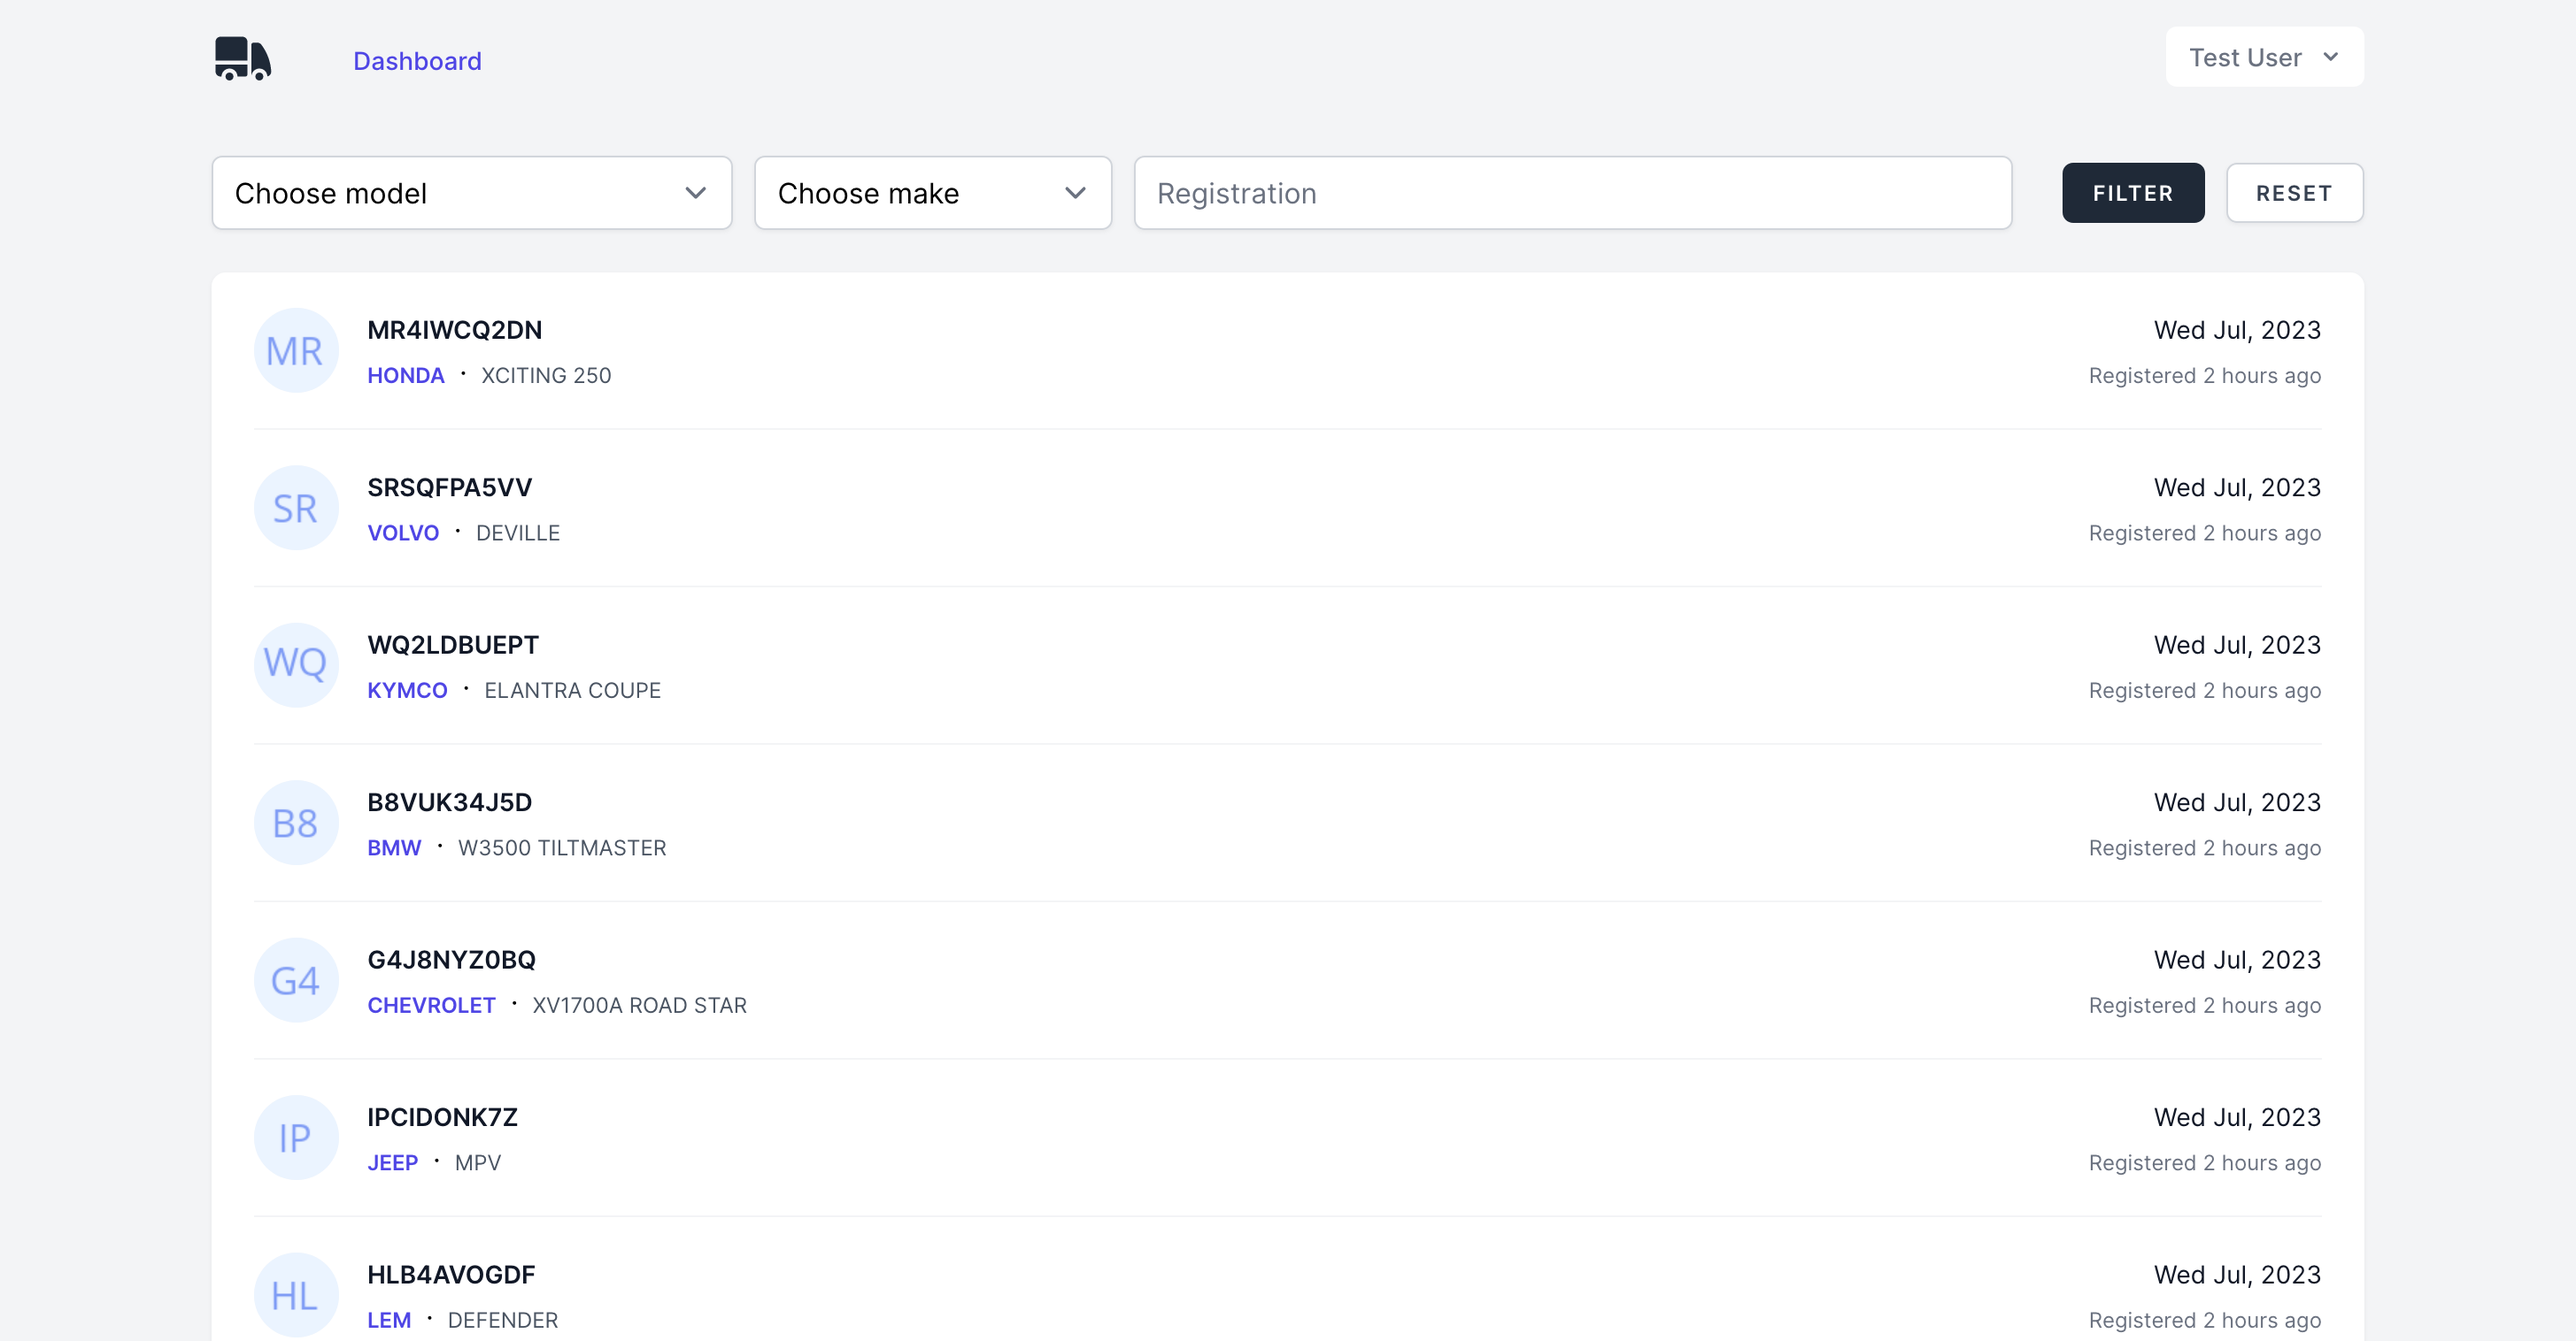
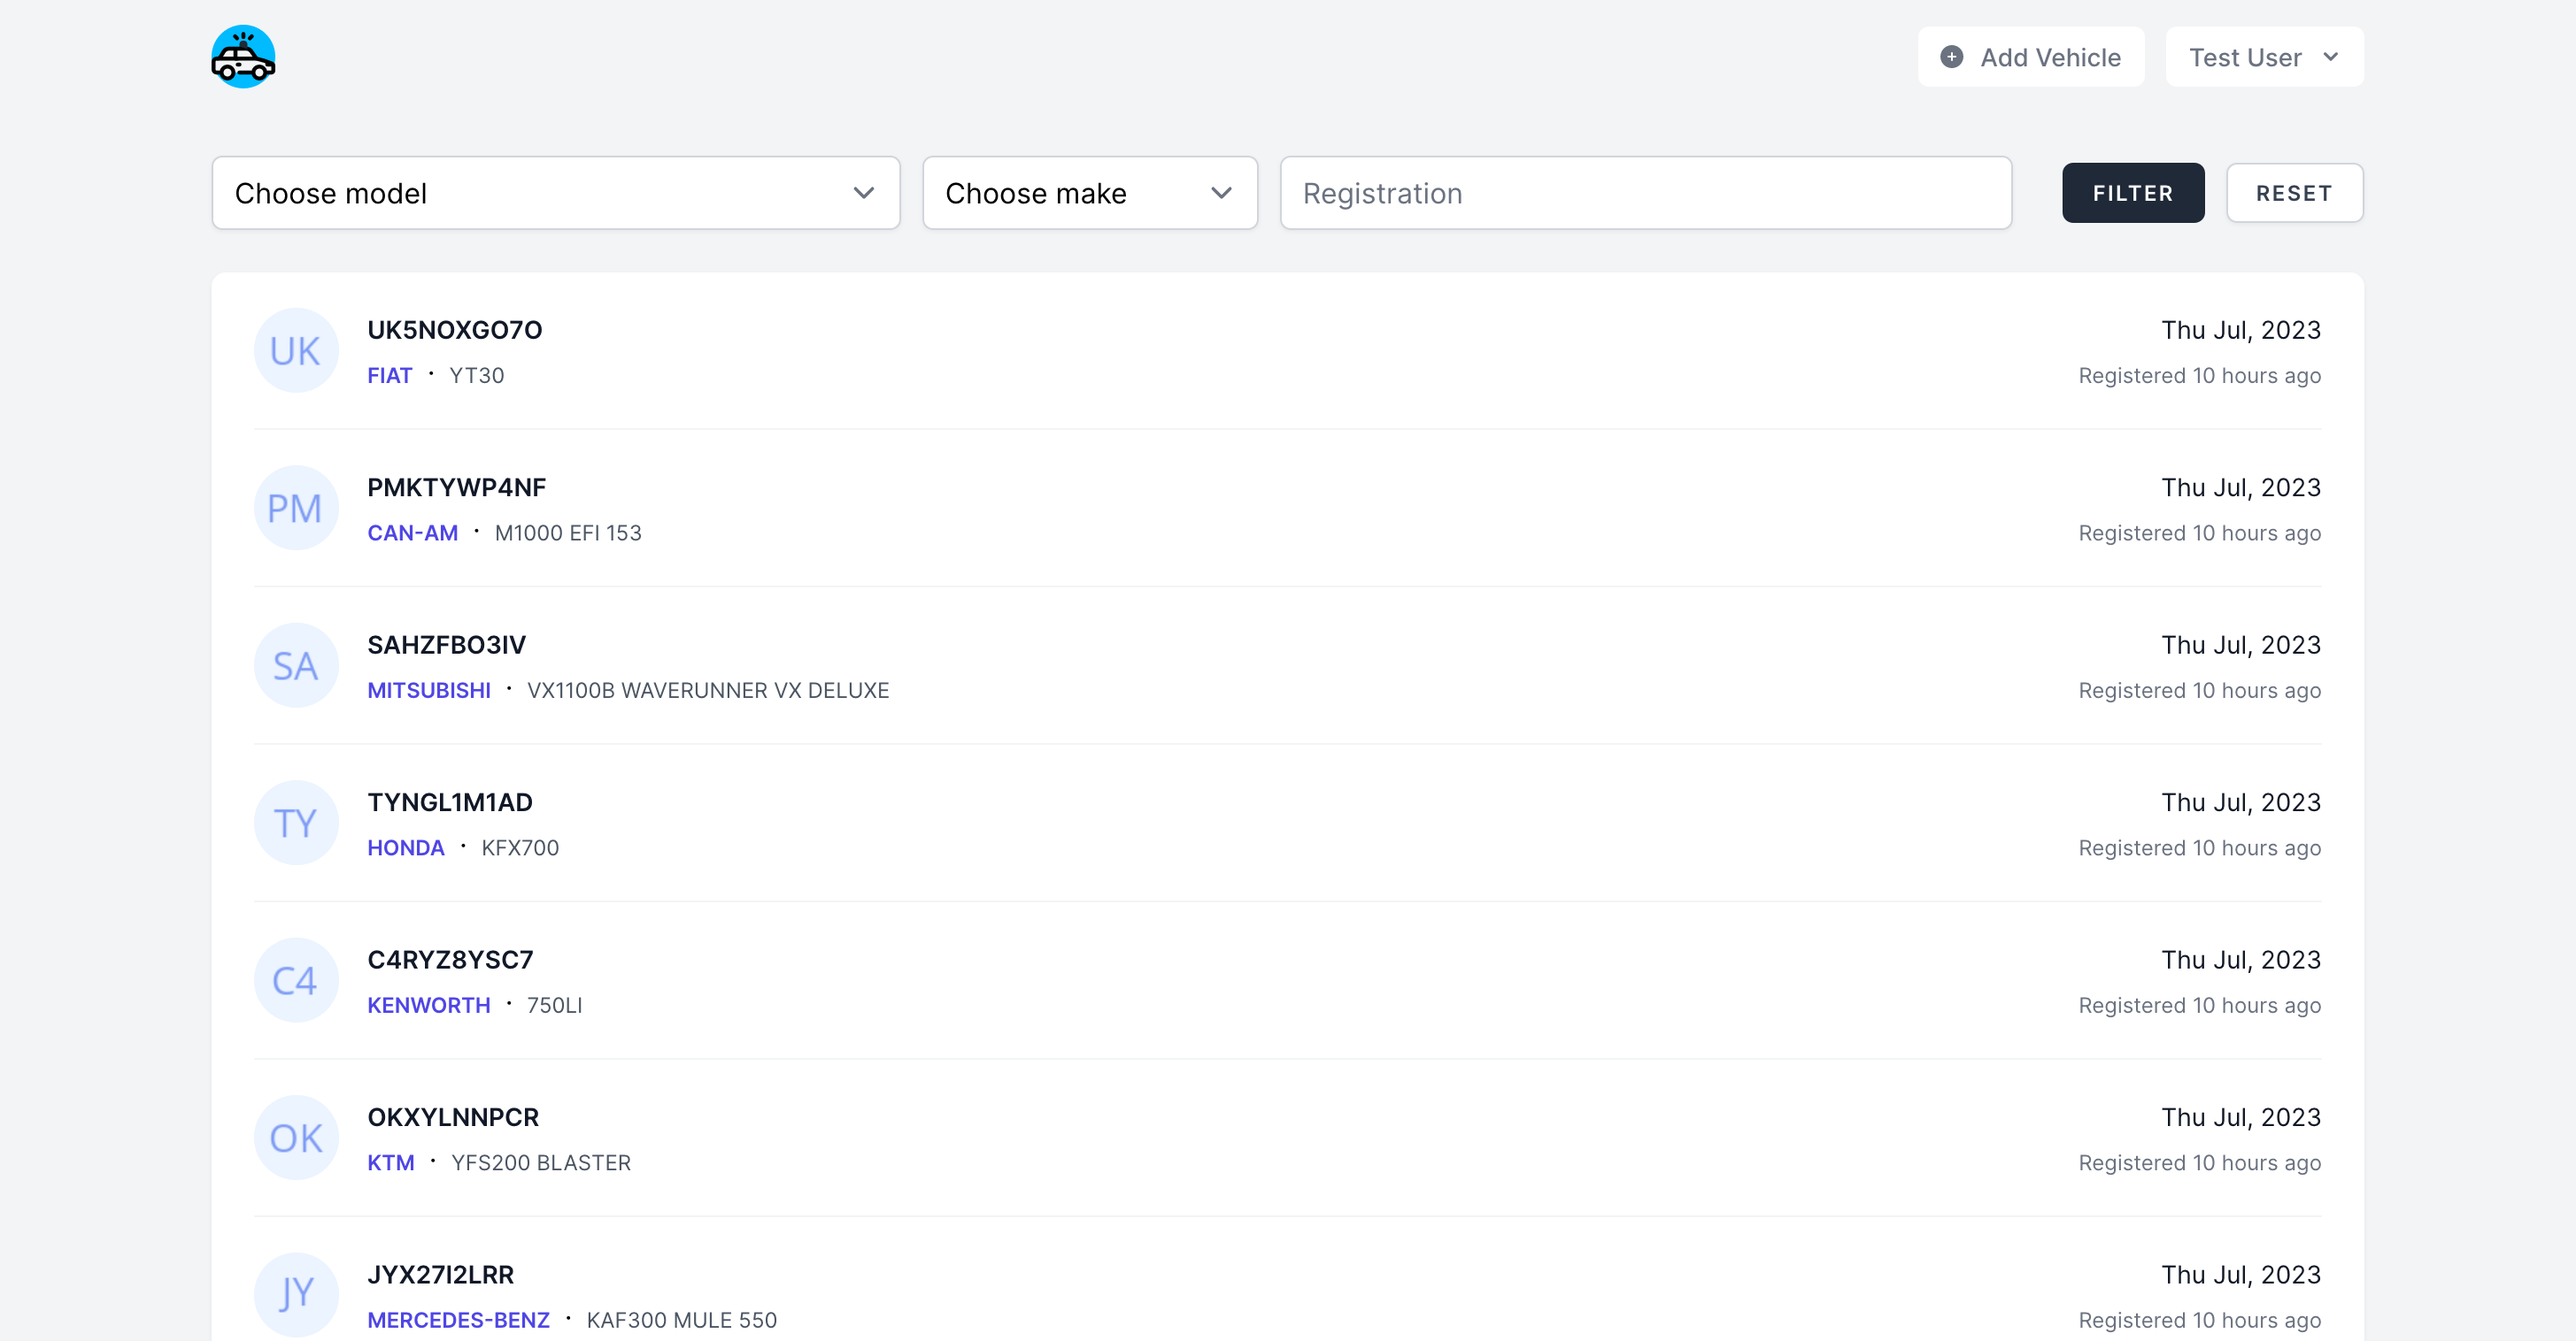
Add vehicle update and delete feature and update README

diff --git a/resources/js/Pages/Home.vue b/resources/js/Pages/Home.vue
@@ -3,8 +3,13 @@ import AuthenticatedLayout from '@/Layouts/AuthenticatedLayout.vue';
 import TextInput from '@/Components/TextInput.vue';
 import PrimaryButton from '@/Components/PrimaryButton.vue';
 import SecondaryButton from '@/Components/SecondaryButton.vue';
+import DangerButton from '@/Components/DangerButton.vue';
 import Pagination from '@/Components/Pagination.vue';
-import { Head, router, usePage } from '@inertiajs/vue3';
+import InputLabel from '@/Components/InputLabel.vue';
+import InputError from '@/Components/InputError.vue';
+import Modal from '@/Components/Modal.vue';
+import { Head, router, usePage, useForm } from '@inertiajs/vue3';
+import { ref, nextTick } from 'vue';
 import moment from 'moment';
 
 const props = defineProps({
@@ -78,6 +83,58 @@ const resetFilter = () => {
 
     router.get(`${window.location.origin}/home`);
 };
+
+const modelInput = ref(null);
+const updatingVehicle = ref(false);
+
+const updateForm = useForm({
+    model: '',
+    make: '',
+    registration: '',
+});
+
+let updatableVehicle = undefined;
+
+const updateVehicle = () => {
+    updateForm.put(route('vehicles.update', updatableVehicle.id), {
+        preserveScroll: true,
+        onSuccess: () => closeUpdateVehicle(),
+        onError: () => modelInput.value.focus(),
+        onFinish: () => updateForm.reset(),
+    });
+};
+
+const openUpdateVehicle = (vehicle) => {
+    updatingVehicle.value = true;
+
+    updatableVehicle = vehicle;
+
+    updateForm.model = vehicle.model;
+    updateForm.make = vehicle.make;
+    updateForm.registration = vehicle.registration;
+
+    nextTick(() => modelInput.value.focus());
+};
+
+const closeUpdateVehicle = () => {
+    updatingVehicle.value = false;
+
+    updateForm.clearErrors();
+    updateForm.reset();
+
+    updatableVehicle = undefined;
+};
+
+const deleteForm = useForm({});
+
+const deleteVehicle = () => {
+    deleteForm.delete(route('vehicles.destroy', updatableVehicle.id), {
+        preserveScroll: true,
+        onSuccess: () => closeUpdateVehicle(),
+        onError: () => modelInput.value.focus(),
+        onFinish: () => updateForm.reset(),
+    });
+};
 </script>
 
 <template>
@@ -135,7 +192,11 @@ const resetFilter = () => {
                                     <img class="h-12 w-12 flex-none rounded-full bg-gray-50" :src="`https://ui-avatars.com/api/?name=${encodeURIComponent(vehicle.registration)}'&color=7F9CF5&background=EBF4FF`" alt="" />
 
                                     <div class="min-w-0 flex-auto">
-                                        <p class="uppercase text-sm font-semibold leading-6 text-gray-900">{{ vehicle.registration }}</p>
+                                        <div>
+                                            <button @click="openUpdateVehicle(vehicle)" class="uppercase text-sm font-semibold leading-6 text-gray-900 hover:underline">
+                                                {{ vehicle.registration }}
+                                            </button>
+                                        </div>
 
                                         <div class="flex items-center">
                                             <p class="mt-1 truncate text-xs font-semibold text-indigo-600">{{ vehicle.make }}</p>
@@ -161,6 +222,84 @@ const resetFilter = () => {
             <div class="flex items-center justify-center">
                 <Pagination :links="vehicles.links"></Pagination>
             </div>
+
+            <!-- Update Vehicle Modal -->
+            <Modal maxWidth="xl" :show="updatingVehicle" @close="closeUpdateVehicle">
+                <div class="p-6">
+                    <h2 class="text-lg font-medium text-gray-900">
+                        Update Vehicle Information
+                    </h2>
+
+                    <p class="mt-1 text-sm text-gray-600">
+                        The existing information regarding the vehicle will be updated and saved to the database.
+                    </p>
+
+                    <div class="mt-6 md:grid md:grid-cols-12 md:gap-6">
+                        <div class="col-span-6">
+                            <InputLabel for="model" value="Model" class="sr-only" />
+
+                            <TextInput
+                                id="model"
+                                required="true"
+                                ref="modelInput"
+                                v-model="updateForm.model"
+                                type="text"
+                                class="mt-1 block w-full"
+                                placeholder="Model"
+                            />
+
+                            <InputError :message="updateForm.errors.model" class="mt-2" />
+                        </div>
+
+                        <div class="col-span-6">
+                            <InputLabel for="make" value="Make" class="sr-only" />
+
+                            <TextInput
+                                id="make"
+                                required="true"
+                                v-model="updateForm.make"
+                                type="text"
+                                class="mt-1 block w-full"
+                                placeholder="Make"
+                            />
+
+                            <InputError :message="updateForm.errors.make" class="mt-2" />
+                        </div>
+                    </div>
+
+                    <div class="mt-4">
+                        <InputLabel for="registration" value="Registration" class="sr-only" />
+
+                        <TextInput
+                            id="registration"
+                            required="true"
+                            v-model="updateForm.registration"
+                            type="text"
+                            class="mt-1 block w-full"
+                            placeholder="Registration"
+                        />
+
+                        <InputError :message="updateForm.errors.registration" class="mt-2" />
+                    </div>
+
+                    <div class="mt-6 flex items-center justify-between">
+                        <DangerButton @click="deleteVehicle">Delete</DangerButton>
+
+                        <div class="flex items-center justify-end">
+                            <SecondaryButton @click="closeUpdateVehicle">Cancel</SecondaryButton>
+
+                            <PrimaryButton
+                                class="ml-3"
+                                :class="{ 'opacity-25': form.processing }"
+                                :disabled="form.processing"
+                                @click="updateVehicle"
+                            >
+                                Save
+                            </PrimaryButton>
+                        </div>
+                    </div>
+                </div>
+            </Modal>
         </div>
     </AuthenticatedLayout>
 </template>

diff --git a/resources/js/Layouts/AuthenticatedLayout.vue b/resources/js/Layouts/AuthenticatedLayout.vue
@@ -3,7 +3,7 @@ import { ref, nextTick } from 'vue';
 import ApplicationLogo from '@/Components/ApplicationLogo.vue';
 import Dropdown from '@/Components/Dropdown.vue';
 import DropdownLink from '@/Components/DropdownLink.vue';
-import NavLink from '@/Components/NavLink.vue';
+// import NavLink from '@/Components/NavLink.vue';
 import InputLabel from '@/Components/InputLabel.vue';
 import InputError from '@/Components/InputError.vue';
 import TextInput from '@/Components/TextInput.vue';

diff --git a/app/Http/Controllers/VehicleController.php b/app/Http/Controllers/VehicleController.php
@@ -8,6 +8,7 @@ use Illuminate\Http\Request;
 use Illuminate\Http\Response;
 use App\Filters\VehicleFilter;
 use App\Services\VehicleService;
+use Illuminate\Http\JsonResponse;
 use Inertia\Response as InertiaResponse;
 use App\Http\Requests\StoreVehicleRequest;
 use App\Http\Requests\UpdateVehicleRequest;
@@ -97,19 +98,13 @@ class VehicleController extends Controller
      *
      * @param \App\Models\Vehicle $vehicle
      *
-     * @return \Illuminate\Http\Response|\Inertia\Response
+     * @return \Illuminate\Http\JsonResponse
      */
-    public function show(Vehicle $vehicle)
+    public function show(Vehicle $vehicle): JsonResponse
     {
         $this->authorize('viewAny', $vehicle);
 
-        if (request()->wantsJson()) {
-            return response()->json($vehicle);
-        }
-
-        return Inertia::render('Vehicles/Show', [
-            'vehicle' => $vehicle,
-        ]);
+        return new JsonResponse($vehicle);
     }
 
     /**

diff --git a/database/factories/VehicleFactory.php b/database/factories/VehicleFactory.php
@@ -26,7 +26,7 @@ class VehicleFactory extends Factory
         return [
             'make' => $this->faker->randomElement($data->pluck('make')->toArray()),
             'model' => $this->faker->randomElement($data->pluck('model')->toArray()),
-            'registration' => Str::random(10),
+            'registration' => Str::upper(Str::random(10)),
         ];
     }
 }

diff --git a/README.md b/README.md
@@ -2,7 +2,7 @@
 
 ![transmission](public/images/screenshot.png)
 
-Trasmission is a web application that allows users to search for cars by make, model, and registration. The application uses a REST API to retrieve the data. The application UI is built using VueJS and TailwindCSS.
+Trasmission is a web application that allows users to search for vehicles by make, model, and registration. The application uses a REST API to retrieve the data. The application UI is built using VueJS and TailwindCSS.
 
 ## Features
 
@@ -10,19 +10,35 @@ Trasmission is a web application that allows users to search for cars by make, m
 
 ![filter-make](public/images/filter-make.png)
 
-The app allows users to filter cars by make. The user can select a make from the dropdown menu and the app will display all cars that match the selected make.
+The app allows users to filter vehicles by make. The user can select a make from the dropdown menu and the app will display all vehicles that match the selected make.
 
 ### Filter by Model
 
 ![filter-model](public/images/filter-model.png)
 
-The app allows users to filter cars by model. The user can select a model from the dropdown menu and the app will display all cars that match the selected model.
+The app allows users to filter vehicles by model. The user can select a model from the dropdown menu and the app will display all vehicles that match the selected model.
 
 ### Filter by Registration
 
-![filter-make-reg](public/images/filter-make-reg.png)
+![filter-make-reg](public/images/filter-reg.png)
 
-The app allows users to filter cars by registration. The user can enter a registration number and the app will display all cars that match the entered registration number.
+The app allows users to filter vehicles by registration. The user can enter a registration number and the app will display all vehicles that match the entered registration number.
+
+### Add New Vehicle
+
+![add](public/images/add.png)
+
+The app allows users to add new vehicles. The user can click on the "Add Vehicle" button and enter the vehicle details in the modal. The app will validate the entered data and display any errors. If the data is valid, the app will add the vehicle to the database and display a success message.
+
+### Update Vehicle
+
+![update-delete-vehicle](public/images/update-delete-vehicle.png)
+
+The app allows users to edit existing vehicles. The user can click on the "Registration" number of the vehicle to be updated and enter the vehicle details in the modal. The app will validate the entered data and display any errors. If the data is valid, the app will update the vehicle in the database and display a success message.
+
+### Delete Vehicle
+
+The update modal also allows users to delete vehicles. The user can click on the "Delete" button to delete the vehicle.
 
 ## Installation
 
